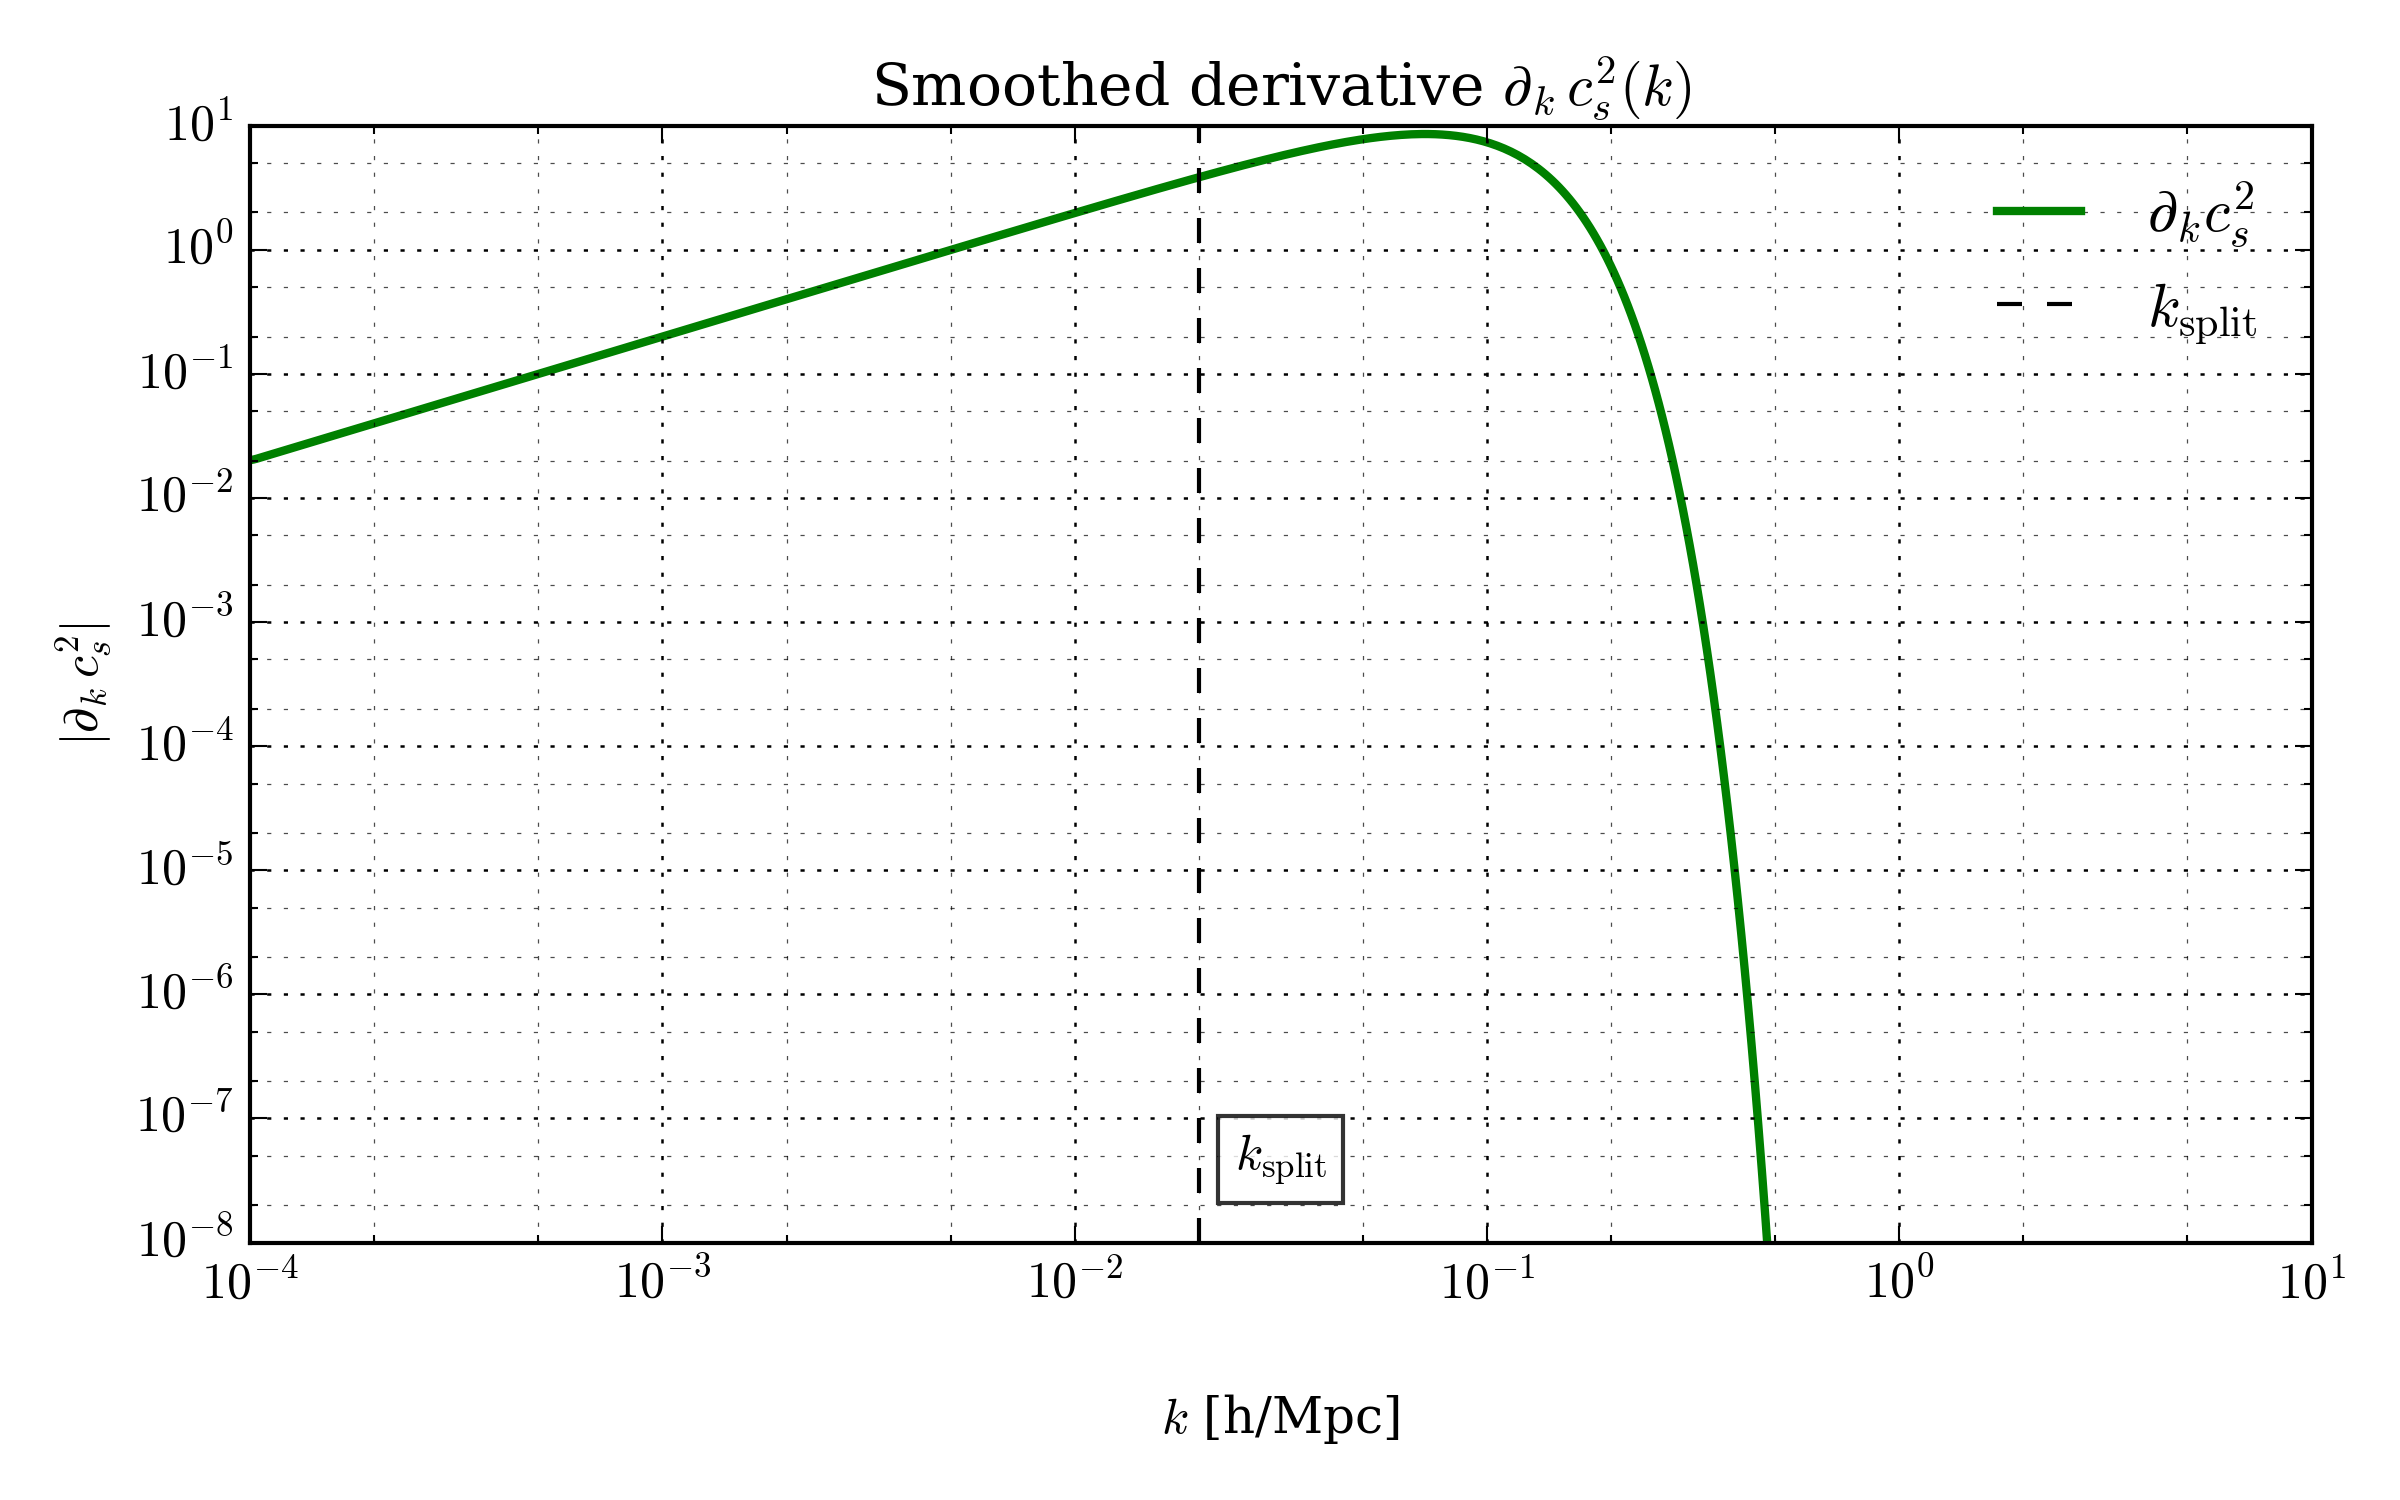
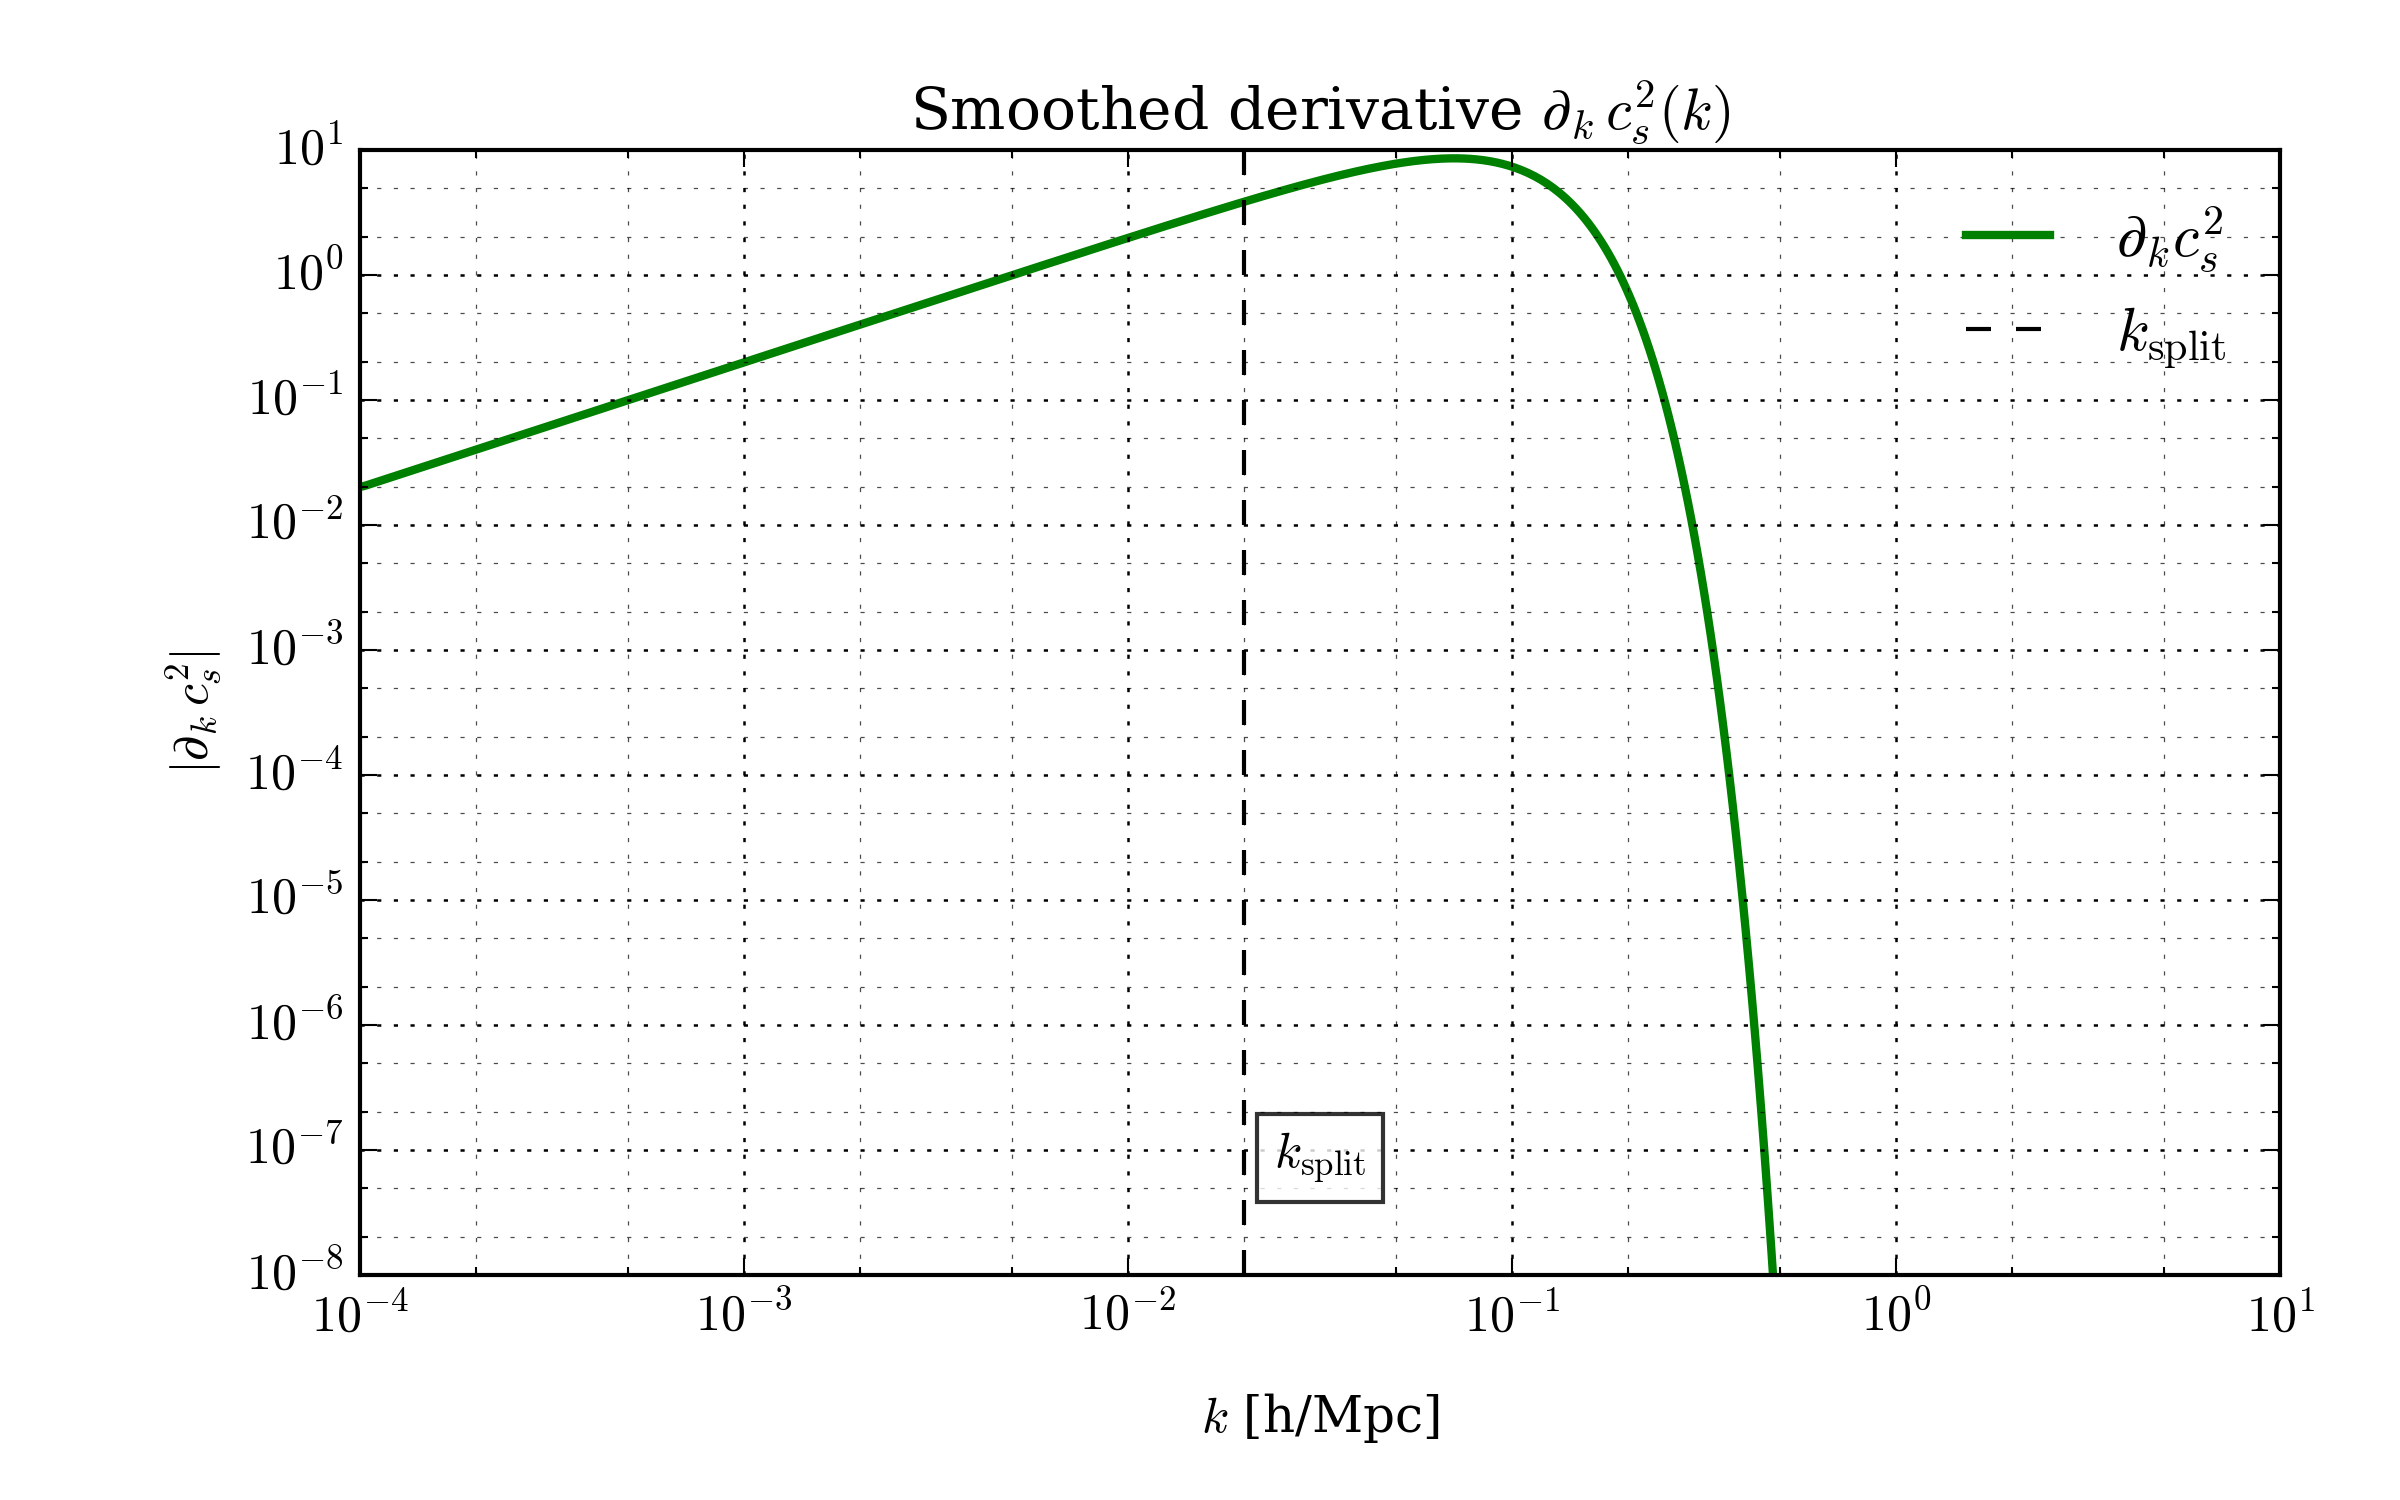
fix(viz): final axis spacing and y-tick de-saturation for CH07

diff --git a/zz-scripts/chapter07/plot_fig04_dcs2_vs_k.py b/zz-scripts/chapter07/plot_fig04_dcs2_vs_k.py
@@ -199,7 +199,7 @@ def plot_dcs2_vs_k(
     ax.axvline(k_split, color="k", ls="--", lw=1, label=r"$k_{\rm split}$")
     ax.text(
         0.5,
-        0.05,
+        0.08,
         r"$k_{\rm split}$",
         transform=ax.transAxes,
         ha="center",
@@ -209,7 +209,7 @@ def plot_dcs2_vs_k(
     )
 
     # Labels et titre
-    ax.set_xlabel(r"$k$ [h/Mpc]", labelpad=20, fontsize=12)
+    ax.set_xlabel(r"$k$ [h/Mpc]", labelpad=12, fontsize=12)
     ax.set_ylabel(r"$|\partial_k\,c_s^2|$", fontsize=12)
     ax.set_title(r"Smoothed derivative $\partial_k\,c_s^2(k)$", fontsize=14)
 
@@ -239,7 +239,7 @@ def plot_dcs2_vs_k(
     ax.set_ylim(max(1e-8, ymin), ymax)
 
     ax.legend(loc="best", frameon=False)
-    fig.tight_layout()
+    fig.subplots_adjust(bottom=0.15, top=0.90, left=0.15, right=0.95)
     safe_save(out_png, dpi=dpi)
     plt.close(fig)
     logging.info("Figure enregistrée : %s", out_png)

diff --git a/zz-scripts/chapter07/plot_fig05_ddelta_phi_vs_k.py b/zz-scripts/chapter07/plot_fig05_ddelta_phi_vs_k.py
@@ -209,7 +209,7 @@ def plot_ddelta_phi_vs_k(
     y_text = 10.0 ** (y_min_dec + 0.05 * (y_max_dec - y_min_dec))
     ax.text(
         0.5,
-        0.05,
+        0.08,
         r"$k_{\rm split}$",
         transform=ax.transAxes,
         ha="center",
@@ -235,8 +235,10 @@ def plot_ddelta_phi_vs_k(
     ax.xaxis.set_minor_locator(LogLocator(base=10, subs=(2, 5)))
 
     ax.yaxis.set_major_locator(LogLocator(base=10.0, numticks=5))
-    from matplotlib.ticker import NullLocator
+    from matplotlib.ticker import NullLocator, NullFormatter
     ax.yaxis.set_minor_locator(NullLocator())
+    ax.yaxis.set_minor_formatter(NullFormatter())
+    ax.tick_params(axis="y", labelsize=10)
     ax.yaxis.set_major_formatter(FuncFormatter(format_pow10))
     ax.set_yticks(yticks)
 

diff --git a/zz-scripts/chapter07/plot_fig07_invariant_i2.py b/zz-scripts/chapter07/plot_fig07_invariant_i2.py
@@ -215,7 +215,7 @@ def plot_invariant_i2(
     y_text = 10.0 ** (pmin + 0.05 * (pmax - pmin))
     ax.text(
         0.5,
-        0.05,
+        0.08,
         r"$k_{\rm split}$",
         transform=ax.transAxes,
         ha="center",
@@ -241,8 +241,10 @@ def plot_invariant_i2(
     ax.xaxis.set_minor_locator(LogLocator(base=10, subs=(2, 5)))
 
     ax.yaxis.set_major_locator(LogLocator(base=10.0, numticks=5))
-    from matplotlib.ticker import NullLocator
+    from matplotlib.ticker import NullLocator, NullFormatter
     ax.yaxis.set_minor_locator(NullLocator())
+    ax.yaxis.set_minor_formatter(NullFormatter())
+    ax.tick_params(axis="y", labelsize=10)
     ax.yaxis.set_major_formatter(FuncFormatter(format_pow10))
     ax.set_yticks(yticks)
 
